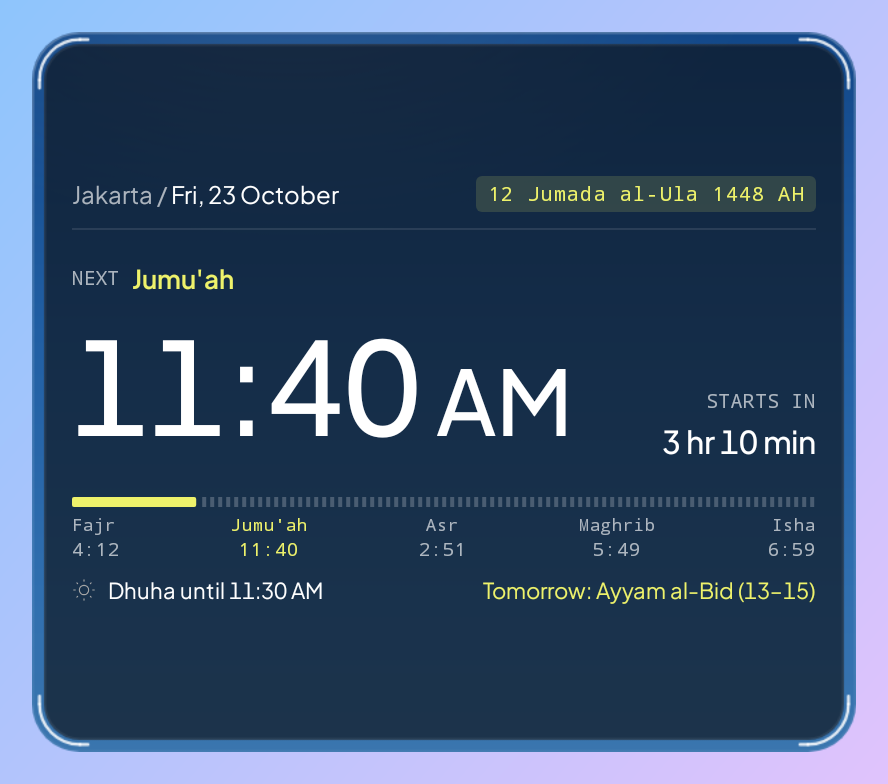
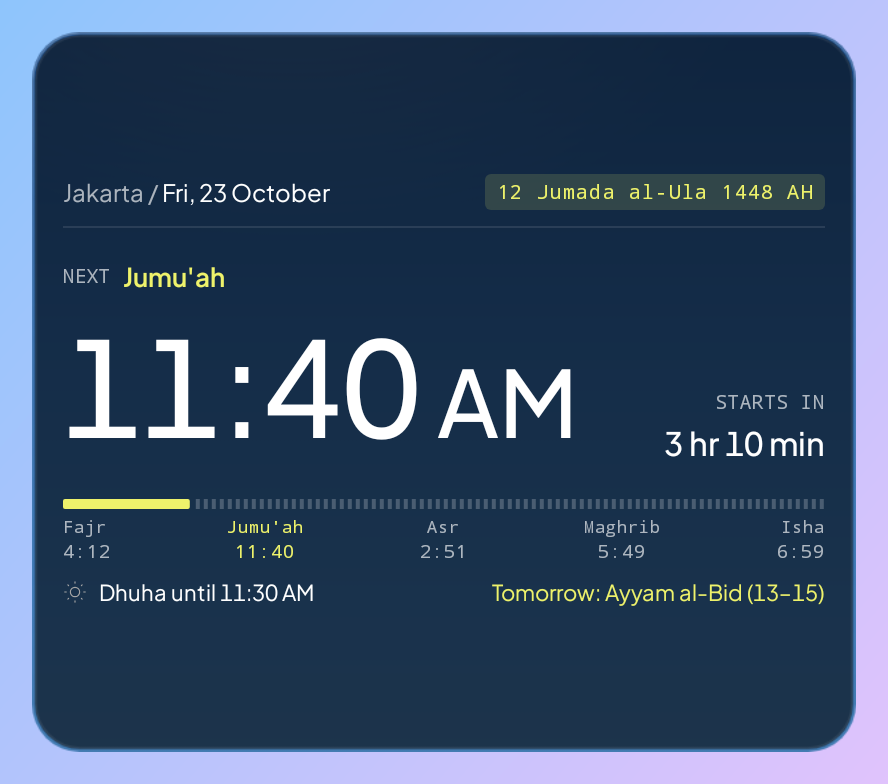
Widget: thin frame, scale names and footer by room
The card now sits 1.5dp inside the sky on every size instead of 6dp/4dp,
and the bracket corners are gone, so there is no thick border.

Card layouts decide the scale's prayer names and the footer from the
height there is rather than the size class. Samsung's 2-row 4x2
(~352x200dp) now shows both; Pixel's 340x164dp 4x2 keeps the times only.
Adds 90-widget-4x2-samsung and a 200dp height to WidgetFitTest.

diff --git a/app/src/main/java/id/haho/muslimdaily/widget/PrayerWidgets.kt b/app/src/main/java/id/haho/muslimdaily/widget/PrayerWidgets.kt
@@ -199,7 +199,7 @@ internal fun PrayerWidgetContent(data: WidgetData) {
     val grid = WidgetGrid.of(size.width.value, size.height.value, context.resources.configuration.fontScale)
     // Built on every composition (cheap), so a language switch shows at the next update.
     val t = WidgetText(context, model, data.time, data.now, data.precise)
-    val inset = if (grid.rows == 1 || grid.columns == 1) Space.InsetSmall else Space.Inset
+    val inset = Space.Inset
     Box(GlanceModifier.fillMaxSize().cornerRadius(corner(context)).openToday(context).semantics { contentDescription = t.description }) {
         SkyBackground(model.sky, inset)
         val l = Layout(model, t, grid.scale, grid.tight, size.width, size.height, inset, TextFit(context), context.resources.configuration.fontScale)
@@ -240,12 +240,11 @@ private fun SkyBackground(look: SkyLook, inset: Dp) {
 
 /**
  * The widget's spacing, shared by every layout so edges and gaps line up between sizes. The card
- * sits [Inset] inside the sky ([InsetSmall] on one-row and one-column widgets); text sits [Pad]
- * inside the card ([PadSmall] on one-column widgets).
+ * sits [Inset] inside the sky, so the sky shows as a hairline rim rather than a frame; text sits
+ * [Pad] inside the card ([PadSmall] on one-column widgets).
  */
 private object Space {
-    val Inset = 6.dp
-    val InsetSmall = 4.dp
+    val Inset = 1.5.dp
     val Pad = 14.dp
     val PadSmall = 8.dp
     val PadShort = 10.dp
@@ -500,7 +499,7 @@ private class Layout(
     fun Medium(tall: Boolean) {
         val pad = Space.Pad
         val inner = inner(pad)
-        Card(inner, pad, crumb = t.dateShort, chip = t.hijriShort, baseTimeSp = if (tall) 44f else 34f, baseCdSp = 13f, scaleNames = tall, footer = tall)
+        Card(inner, pad, crumb = t.dateShort, chip = t.hijriShort, baseTimeSp = if (tall) 44f else 34f, baseCdSp = 13f, tall = tall)
     }
 
     /** Four and five columns: the reference layout. */
@@ -515,19 +514,18 @@ private class Layout(
             chip = if (five || tall) t.hijriLong else t.hijriShort,
             baseTimeSp = if (tall) 52f else 40f,
             baseCdSp = if (tall) 17f else 15f,
-            scaleNames = tall || five,
-            footer = tall,
+            tall = tall,
             long = true,
         )
     }
 
     @Composable
-    fun Card(inner: Dp, pad: Dp, crumb: CharSequence, chip: String, baseTimeSp: Float, baseCdSp: Float, scaleNames: Boolean, footer: Boolean, long: Boolean = false) {
+    fun Card(inner: Dp, pad: Dp, crumb: CharSequence, chip: String, baseTimeSp: Float, baseCdSp: Float, tall: Boolean, long: Boolean = false) {
         val name = if (long) t.nextNameLong else t.nextName
         // Tall cells: spare height goes to the time and the countdown (up to 2x, capped by width), not to gaps.
         val fixed = line(12f * k) + Space.M * 3 + 1.dp + line(9.5f * k) + Space.S + Space.Bar + Space.S + line(9f * k) * 2 + Space.M + line(11f * k)
         val cardH = height - inset * 2 - Space.L - Space.Pad
-        val grow = if (footer) ((cardH - fixed - (Space.L + Space.S) * 2 - 4.dp) / line(baseTimeSp * k)).coerceIn(1f, 2f) else 1f
+        val grow = if (tall) ((cardH - fixed - (Space.L + Space.S) * 2 - 4.dp) / line(baseTimeSp * k)).coerceIn(1f, 2f) else 1f
         val timeSp = baseTimeSp * grow
         val cdSp = baseCdSp * (1f + (grow - 1f) / 2)
         // The chip keeps its room; the crumb shortens before it.
@@ -546,19 +544,20 @@ private class Layout(
         val st = st0 * both
         // The card's height inside its padding (more below the scale than above the header).
         val avail = height - inset * 2 - Space.L - Space.Pad
-        val withNames = Scale(inner, names = scaleNames).let { if (scaleNames && it.small) Scale(inner, names = false) else it }
+        val withNames = Scale(inner, names = true).let { if (it.small) Scale(inner, names = false) else it }
         val headerH = maxOf(line(12f * k * v), line(chipSp * v) + 6.dp)
         val bodyH = line(9.5f * s) + Space.S + line(timeSp * st)
         // The gaps as drawn: fixed on tall cards, at least M where they flex.
-        val gap = if (footer) Space.L + Space.S else Space.M
-        val need = headerH + Space.M + 1.dp + gap + bodyH + gap + Space.Bar + Space.S + withNames.height + (if (footer) Space.M + maxOf(line(11f * k), 12.dp) + 2.dp else 0.dp)
-        val roomy = avail >= need
-        // Names over the scale's times only where they fit; otherwise the times alone.
-        val scale = if (scaleNames && !roomy) Scale(inner, names = false) else withNames
+        val gap = if (tall) Space.L + Space.S else Space.M
+        val base = headerH + Space.M + 1.dp + gap + bodyH + gap + Space.Bar + Space.S
+        // Decided by the room there is, not the size class (Samsung's 2-row cells are taller than
+        // Pixel's): names over the scale's times where they fit, then the footer under them.
+        val scale = if (avail >= base + withNames.height) withNames else Scale(inner, names = false)
+        val footer = avail >= base + withNames.height + Space.M + maxOf(line(11f * k), 12.dp) + 2.dp
         // Tall cards keep one rhythm from header to footer and centre the group in the card.
         Column(
             GlanceModifier.fillMaxSize().padding(start = inset + pad, end = inset + pad, top = inset + Space.L, bottom = inset + Space.Pad),
-            verticalAlignment = if (footer) Alignment.CenterVertically else Alignment.Top,
+            verticalAlignment = if (tall) Alignment.CenterVertically else Alignment.Top,
         ) {
             Column(GlanceModifier.fillMaxWidth()) {
                 Row(GlanceModifier.fillMaxWidth(), verticalAlignment = Alignment.CenterVertically) {
@@ -569,7 +568,7 @@ private class Layout(
                 Spacer(GlanceModifier.height(Space.M))
                 Box(GlanceModifier.fillMaxWidth().height(1.dp).background(DividerColor)) {}
             }
-            Spacer(if (footer) GlanceModifier.height(Space.L + Space.S) else GlanceModifier.defaultWeight())
+            Spacer(if (tall) GlanceModifier.height(Space.L + Space.S) else GlanceModifier.defaultWeight())
             Row(GlanceModifier.fillMaxWidth(), verticalAlignment = Alignment.Bottom) {
                 Column {
                     NextLabel(9.5f * s, 13f * s, long)
@@ -585,17 +584,17 @@ private class Layout(
                 }
             }
             // Tall: the next prayer and the bar stay together in the middle, the footer at the bottom.
-            Spacer(if (footer) GlanceModifier.height(Space.L + Space.S) else GlanceModifier.defaultWeight())
+            Spacer(if (tall) GlanceModifier.height(Space.L + Space.S) else GlanceModifier.defaultWeight())
             Column(GlanceModifier.fillMaxWidth()) {
                 Bar(inner, Space.Bar, scale.stops)
                 // Flexible gaps (short cards) can close to nothing; fixed ones (tall cards) cannot.
-            val minGap = if (footer) gap else 0.dp
-            if (!scale.small && avail >= headerH + Space.M + 1.dp + minGap * 2 + bodyH + Space.Bar + Space.S + scale.height) {
+                val minGap = if (tall) gap else 0.dp
+                if (!scale.small && avail >= headerH + Space.M + 1.dp + minGap * 2 + bodyH + Space.Bar + Space.S + scale.height) {
                     Spacer(GlanceModifier.height(Space.S))
                     scale.Draw()
                 }
             }
-            if (footer && roomy) Footer(11f * k, inner)
+            if (footer) Footer(11f * k, inner)
         }
     }
 

diff --git a/app/src/main/java/id/haho/muslimdaily/widget/SkyPainter.kt b/app/src/main/java/id/haho/muslimdaily/widget/SkyPainter.kt
@@ -7,7 +7,6 @@ import android.graphics.Color
 import android.graphics.LinearGradient
 import android.graphics.Matrix
 import android.graphics.Paint
-import android.graphics.Path
 import android.graphics.RadialGradient
 import android.graphics.RectF
 import android.graphics.Shader
@@ -96,8 +95,8 @@ object Sky {
 
 /**
  * Paints a [SkyLook] as the widget's background bitmap, with rounded corners and a soft rim, and
- * optionally the card the text sits on: smoked glass inset from the edge, so the sky shows as a
- * frame and through the card, with a hairline edge and bracket corners.
+ * optionally the card the text sits on: smoked glass inset a hairline from the edge, so the sky
+ * shows as a thin rim and through the card, with a hairline edge of its own.
  */
 object SkyPainter {
 
@@ -105,7 +104,6 @@ object SkyPainter {
     const val CARD = 0xA80E1218.toInt()
     const val ACCENT = 0xFFEEF26B.toInt()
     private const val CARD_EDGE = 0x14FFFFFF
-    private const val BRACKET = 0xD9FFFFFF.toInt()
     private const val TRACK = 0x38FFFFFF
 
     fun paint(widthPx: Int, heightPx: Int, density: Float, look: SkyLook, cornerPx: Float, stars: Boolean = true, cardInsetPx: Float = 0f): Bitmap {
@@ -146,36 +144,6 @@ object SkyPainter {
             color = CARD_EDGE
         }
         c.drawRoundRect(RectF(box.left + d / 2, box.top + d / 2, box.right - d / 2, box.bottom - d / 2), corner, corner, edge)
-        // Brackets: each corner's curve plus a short straight run on both sides, in the margin
-        // between the card and the sky's edge, so they frame the card instead of crowding its text.
-        val bracket = Paint(Paint.ANTI_ALIAS_FLAG).apply {
-            style = Paint.Style.STROKE
-            strokeWidth = 1.5f * d
-            strokeCap = Paint.Cap.ROUND
-            color = BRACKET
-        }
-        val run = 4f * d
-        val half = bracket.strokeWidth / 2
-        val out = inset / 2
-        val l = box.left - out + half
-        val t = box.top - out + half
-        val r = box.right + out - half
-        val b = box.bottom + out - half
-        val k = corner + out - half
-        fun arc(cx: Float, cy: Float, start: Float) = RectF(cx - k, cy - k, cx + k, cy + k).let { oval ->
-            Path().apply { arcTo(oval, start, 90f, true) }
-        }
-        listOf(
-            Triple(l + k, t + k, 180f), Triple(r - k, t + k, 270f), Triple(r - k, b - k, 0f), Triple(l + k, b - k, 90f),
-        ).forEach { (cx, cy, start) -> c.drawPath(arc(cx, cy, start), bracket) }
-        c.drawLine(l, t + k, l, t + k + run, bracket)
-        c.drawLine(l + k, t, l + k + run, t, bracket)
-        c.drawLine(r - k - run, t, r - k, t, bracket)
-        c.drawLine(r, t + k, r, t + k + run, bracket)
-        c.drawLine(r, b - k - run, r, b - k, bracket)
-        c.drawLine(r - k - run, b, r - k, b, bracket)
-        c.drawLine(l + k, b, l + k + run, b, bracket)
-        c.drawLine(l, b - k - run, l, b - k, bracket)
     }
 
     /**

diff --git a/app/src/test/java/id/haho/muslimdaily/widget/WidgetFitTest.kt b/app/src/test/java/id/haho/muslimdaily/widget/WidgetFitTest.kt
@@ -65,7 +65,7 @@ class WidgetFitTest {
 
     // The launcher grid's sizes, plus larger cells (tablets, Samsung's 5-column grid) where the type scales up.
     private val widths = listOf(76, 110, 164, 195, 252, 290, 340, 400, 428, 520)
-    private val heights = listOf(56, 76, 150, 164, 215, 230, 250, 252, 330)
+    private val heights = listOf(56, 76, 150, 164, 200, 215, 230, 250, 252, 330)
     private val times = listOf(4 to 45, 8 to 30, 11 to 35, 17 to 30, 19 to 5, 21 to 0, 23 to 50)
     private val indonesian = Locale.forLanguageTag("id-ID")
 
@@ -77,7 +77,7 @@ class WidgetFitTest {
 
     @Test fun english12Hour() = everyTextFits(Locale.ENGLISH, is24 = false)
 
-    // Each locale renders ~1,900 widgets: more than runTest's default minute on a busy machine.
+    // Each locale renders ~2,100 widgets: more than runTest's default minute on a busy machine.
     private fun everyTextFits(locale: Locale, is24: Boolean) = runTest(timeout = 5.minutes) {
         val problems = mutableListOf<String>()
         for ((h, m) in times) for (w in widths) for (ht in heights) {

diff --git a/app/src/test/java/id/haho/muslimdaily/screenshots/WidgetScreenshotTest.kt b/app/src/test/java/id/haho/muslimdaily/screenshots/WidgetScreenshotTest.kt
@@ -44,7 +44,7 @@ import java.util.Locale
 /**
  * Renders the prayer-times widget through Glance's RemoteViews translation (what launchers get),
  * over a wallpaper-like gradient: every size from 1×1 to 5×3, the 4×2 through the day, at 200%
- * system font, in a short landscape row, and with no location yet. Friday 23 October 2026,
+ * system font, in a short landscape row, Samsung's taller 4×2, and with no location yet. Friday 23 October 2026,
  * Jakarta: Dhuhr is Jumu'ah and tomorrow is the first of the white days.
  */
 @RunWith(AndroidJUnit4::class)
@@ -133,5 +133,7 @@ class WidgetScreenshotTest {
         } finally {
             Locale.setDefault(default)
         }
+        // Samsung's 4×2 is taller than Pixel's but still two rows: the scale's names and the footer fit.
+        render("90-widget-4x2-samsung", DpSize(352.dp, 200.dp), morning)
     }
 }

diff --git a/DESIGN.md b/DESIGN.md
@@ -8,7 +8,6 @@ colors:
   smoked-card: "#0E1218A8"
   card-hairline: "#FFFFFF14"
   header-divider: "#FFFFFF1A"
-  bracket-white: "#FFFFFFD9"
   track-dash: "#FFFFFF38"
   chip-fill: "#EEF26B26"
 typography:
@@ -57,8 +56,7 @@ spacing:
   s: "4dp"
   m: "8dp"
   l: "12dp"
-  inset: "6dp"
-  inset-small: "4dp"
+  inset: "1.5dp"
   pad: "14dp"
   pad-short: "10dp"
   pad-small: "8dp"
@@ -109,13 +107,13 @@ components:
 
 **Creative North Star: "The Instrument Over the Sky"**
 
-The widget is a dark smoked-glass card set into a sky that changes with the time of day. It reads like a signal meter. One yellow accent says what comes next, a large figure gives its time, a smaller phrase says how long until then, and a bar shows how far the day (or the night) has gone. The sky is the only colour field. The card darkens it enough for every text colour to pass AA, and the sky still shows round the card's edge and faintly through it.
+The widget is a dark smoked-glass card set into a sky that changes with the time of day. It reads like a signal meter. One yellow accent says what comes next, a large figure gives its time, a smaller phrase says how long until then, and a bar shows how far the day (or the night) has gone. The sky is the only colour field. The card darkens it enough for every text colour to pass AA, and the sky still shows as a hairline rim round the card and faintly through it.
 
 It is dense but calm. Each size class from 1×1 to 5×3 is put together from the same few parts, and spare room goes to the figures, never to padding. The type keeps two voices apart: Google Sans Flex for the content (numbers, names, the countdown), and the system monospace, letter-spaced and in caps, for the instrument's own labels and the bar's scale. The build rejects the category default: there is no gradient card holding a table of the five times. The times show up only as the bar's scale, and only where there is room.
 
 **Key Characteristics:**
 - One accent (`accent-signal`), used only for what is next: the prayer's name, its stop on the scale, the bar's filled part, the Hijri chip, and tomorrow's sunnah fast.
-- A smoked card inset from the sky, with a hairline edge and white bracket corners drawn in the margin around it.
+- A smoked card inset a hairline (1.5dp) from the sky's edge, with a 1dp hairline of its own. No frame, no corner marks.
 - Mono caps labels as instrument legends ("BERIKUTNYA", "TIBA DALAM") paired with the values they label.
 - Figures grow to fill tall cells. Text never ellipsizes where it carries the answer.
 - The sky follows the prayer times. The bar runs from Subuh to Isya by day and from Isya to Subuh at night.
@@ -133,7 +131,6 @@ Colour comes from a single field, the sky. The card is near-black glass, the tex
 - **Smoked Card** (`smoked-card`, #0E1218 at 66%): the glass the text sits on. Its darkness is set so muted text and the accent pass AA over every sky.
 - **Card Hairline** (`card-hairline`): a 1dp stroke just inside the card's edge.
 - **Header Divider** (`header-divider`): a 1dp rule under the header row on Card layouts (3 to 5 columns, 2 to 3 rows).
-- **Bracket White** (`bracket-white`): 1.5dp round-capped corner brackets.
 - **Track Dash** (`track-dash`): the dashed part of the bar, the time still to come.
 - **Chip Fill** (`chip-fill`, the accent at 15%): the Hijri chip's ground.
 
@@ -143,7 +140,7 @@ The sky is a four-stop vertical gradient (stops at 0, 0.42, 0.78, 1) with one so
 ### Named Rules
 **The One Signal Rule.** The accent marks what is next and nothing else. A new element gets the accent only if it points forward in time.
 
-**The Glass Not Paint Rule.** The card is translucent smoke over the sky (`smoked-card`) and never an opaque fill. The sky must stay visible round the card and through it.
+**The Glass Not Paint Rule.** The card is translucent smoke over the sky (`smoked-card`) and never an opaque fill. The sky must stay visible round the card (as a thin rim, never a thick frame) and through it.
 
 ## Typography
 
@@ -170,8 +167,8 @@ All sizes are sp, so the system font size still applies. Each layout multiplies 
 | 3–5×1 | 11 SemiBold | 28 (22 when tight, under 70dp tall) | 14 Medium | TIBA DALAM 9; chip 10; date 11 |
 | 1×2, 1×3 | 12 SemiBold | hours and minutes stacked, 18–44 each | 11 muted, short form | date 11; Hijri 10 muted, up to 3 lines |
 | 2×2, 2×3 | 13 SemiBold | 34 × 0.5–1.5 by spare height | 12 (×1.5 on 2×3) | labels 9.5; date 12 Medium; chip 10; footer 11 |
-| 3×2, 3×3 | 13 SemiBold | 34 / 44 | 13 | labels 9.5; crumb 12; chip 10; scale 9 (names 8.5 on 3×3) |
-| 4–5×2, 4–5×3 | 13 SemiBold | 40 / 52 | 15 / 17 | as 3×; scale names on 5× and on 3-row sizes; footer 11 |
+| 3×2, 3×3 | 13 SemiBold | 34 / 44 | 13 | labels 9.5; crumb 12; chip 10; scale 9, names 8.5 where they fit; footer 11 where it fits |
+| 4–5×2, 4–5×3 | 13 SemiBold | 40 / 52 | 15 / 17 | as 3× |
 
 On 3-row Card sizes, spare height scales the time by up to 2×, and the countdown by half that growth.
 
@@ -185,35 +182,35 @@ On 3-row Card sizes, spare height scales the time by up to 2×, and the countdow
 The widget is a grid of size classes. Columns break at widths of 110, 195, 290 and 400dp. Rows break at heights of 150dp and then 250dp (215dp for 4 or more columns). Both are measured after dividing by the font scale. Each class has its own layout built from the same parts: OneByOne, TwoByOne, WideOne (3 to 5 columns × 1 row), Narrow (1 column), Square (2 columns), and Card (3 to 5 columns × 2 to 3 rows, the reference layout).
 
 Spacing is one shared object, so edges and gaps line up across sizes:
-- **Inset** (`inset`, or `inset-small` on one-row and one-column widgets): the sky margin round the card.
+- **Inset** (`inset`, every size): the sky rim round the card, kept to a hairline so the widget has no thick border.
 - **Pad** (`pad` on Card and WideOne, `l` on Square, `pad-short` vertical on 2×1, `pad-small` on 1×1 and Narrow): the text's padding inside the card. On Card layouts the top padding is `l` and the bottom padding is `pad`.
 - **Steps** `xs`, `s`, `m`, `l`: the gaps between parts. Label to value gaps use `s`. Name to time gaps use `xs`. Header to divider uses `m`. Gaps around the next-prayer block are `l + s` on tall cards and flexible with a minimum of `m` on 2-row cards.
 - **Bar height**: `bar` on Square and Card layouts, `bar-thin` elsewhere.
 
-Spare height goes to the figures first and to gaps last. Tall cards keep one rhythm from header to footer and centre the group in the card. Under pressure, parts drop out in this order: the footer, then the scale's names, then the scale, and only then does type shrink.
+Spare height goes to the figures first and to gaps last. Tall cards keep one rhythm from header to footer and centre the group in the card. On Card layouts the scale's names and the footer are decided by the height there is, not the size class: Samsung's 2-row cells (about 350×200dp) are taller than Pixel's (340×164dp) and get both. Under pressure, parts drop out in this order: the footer, then the scale's names, then the scale, and only then does type shrink.
 
 ### Named Rules
 **The Figures Take the Room Rule.** Spare space goes to the time and the countdown, never to wider padding or bigger gaps.
 
 ## Elevation & Depth
 
-There are no shadows. Depth comes from translucency: the sky behind, the smoked card in front, and the text on top. A 1dp hairline marks the card's edge, and white brackets in the margin frame the card from outside so they never crowd its text. A soft rim on the sky's own edge separates the widget from the wallpaper.
+There are no shadows. Depth comes from translucency: the sky behind, the smoked card in front, and the text on top. A 1dp hairline marks the card's edge. A soft rim on the sky's own edge separates the widget from the wallpaper.
 
 ### Named Rules
 **The Smoke Not Shadow Rule.** Depth comes from the card's translucency and its hairline. No drop shadows and no lifted layers.
 
 ## Shapes
 
-The sky's corners follow the launcher's widget radius (`system_app_widget_background_radius` on Android 12+, otherwise `sky-fallback`). The card's radius is the sky's radius minus the inset, with a 2dp minimum, so the two curves stay concentric. Brackets trace each corner's curve halfway into the margin and extend 4dp straight on both sides. The chip is nearly square-cornered (`chip`). The bar's filled run has a 1dp radius, and its track is 2dp dashes with 2dp gaps. The header divider is a full-width 1dp rule.
+The sky's corners follow the launcher's widget radius (`system_app_widget_background_radius` on Android 12+, otherwise `sky-fallback`). The card's radius is the sky's radius minus the inset, with a 2dp minimum, so the two curves stay concentric. The chip is nearly square-cornered (`chip`). The bar's filled run has a 1dp radius, and its track is 2dp dashes with 2dp gaps. The header divider is a full-width 1dp rule.
 
 ## Components
 
 ### Card (signature)
 - **Corner Style:** concentric with the sky (see Shapes).
-- **Background:** `smoked-card` with a `card-hairline` stroke, and bracket corners in `bracket-white` drawn in the inset margin.
+- **Background:** `smoked-card` with a `card-hairline` stroke, inset 1.5dp from the sky's edge.
 - **Shadow Strategy:** none (see Elevation & Depth).
 - **Internal Padding:** `pad` at the sides and bottom, `l` at the top on Card layouts.
-- The card, brackets, sky and bar are painted into bitmaps (sky at up to 1.5× density). Only text and the chip are views.
+- The card, sky and bar are painted into bitmaps (sky at up to 1.5× density). Only text and the chip are views.
 
 ### Header
 - **Crumb:** the place in `muted-white`, then " / ", then the date in `on-sky`, set in Body at 12sp. It takes the remaining width and may shorten with "…".
@@ -235,9 +232,9 @@ The sky's corners follow the launcher's widget radius (`system_app_widget_backgr
 - **Day and night:** by day the stops are the five prayers. From Isya until Subuh, the bar runs from Isya to Subuh with two stops. The header keeps today's date after Isya, even though the next prayer is tomorrow.
 
 ### Scale
-- The bar's stop times in mono `muted-white`, with the next one in `accent-signal`. Prayer names sit above at 8.5sp where there is room. The first stop is start-aligned, the last end-aligned, and the rest centred. The type shrinks to keep 6dp between items, and the scale drops out once it would shrink below 0.75× (with more than two stops).
+- The bar's stop times in mono `muted-white`, with the next one in `accent-signal`. Prayer names sit above at 8.5sp wherever the card's height has room for them. The first stop is start-aligned, the last end-aligned, and the rest centred. The type shrinks to keep 6dp between items, and the scale drops out once it would shrink below 0.75× (with more than two stops).
 
-### Footer (3-row sizes)
+### Footer (Card and 2×3 sizes, where the height has room)
 - On the left, a 12dp Material icon tinted `muted-white` with the "now" line in Body `on-sky` ("Dhuha hingga 11.30"). On the right, tomorrow's sunnah fast in `accent-signal`. It shows only what fits whole: both lines, else the fast, else the "now" line, else nothing.
 
 ### Empty and handover states

diff --git a/.impeccable/surfaces/haho-muslimdaily-widget-prayerwidgets-kt-1ffbd110.md b/.impeccable/surfaces/haho-muslimdaily-widget-prayerwidgets-kt-1ffbd110.md
@@ -9,12 +9,12 @@ related_targets: []
 
 Mode: Operate (a glance surface). Audience: Indonesian Muslims checking the next prayer from the home or lock screen.
 Job: which prayer is next, its time, how long until it, and today's Gregorian and Hijri date. Every size 1×1 to 5×3; lock-screen capable; the time-of-day sky stays (owner).
-Constraints: RemoteViews (system fonts only, no free drawing; card, brackets and bar are painted bitmaps), WCAG AA, 200% font without clipping, Indonesian first.
+Constraints: RemoteViews (system fonts only, no free drawing; card and bar are painted bitmaps), WCAG AA, 200% font without clipping, Indonesian first.
 
 ## Direction contract
 
 THESIS: A smoked-glass instrument card laid over the living sky, owner's reference (dark card on a blurred photo, mono caps labels, yellow progress bar). Refuses the category default of a gradient card with a list or table of times.
-OWN-WORLD: Card #0E1218 at 66% over the time-of-day sky, hairline edge, white bracket corners; text white, labels mono caps at 65% white; one accent #EEF26B (next prayer's name, its scale label, the bar's fill, the Hijri chip on a 15% accent fill). Google Sans Medium for numbers, system monospace for labels.
+OWN-WORLD: Card #0E1218 at 66% over the time-of-day sky, inset a hairline (1.5dp), hairline edge; text white, labels mono caps at 65% white; one accent #EEF26B (next prayer's name, its scale label, the bar's fill, the Hijri chip on a 15% accent fill). Google Sans Medium for numbers, system monospace for labels.
 STORY: The visitor sees the next prayer's name in the accent, its time large, "TIBA DALAM" and the time left small beside it, and how far the day has gone on the bar; the dates sit quietly in the header.
 FIRST VIEWPORT: 4×2: header row "Jakarta / Sen, 26 Okt" left, Hijri chip right, hairline; "BERIKUTNYA" + name in accent; time at 40sp left, "TIBA DALAM" over "6 jam 25 menit" at 15sp right-aligned on the time's baseline; bar (accent fill, dashed rest) with the five times as its scale, next one in accent. At night the bar runs Isya to Subuh.
 FORM: Owner-pinned reference after two rolls and two sketches were declined (form: their "signal strength" card, adapted). seed:486a7d628f3723ad
